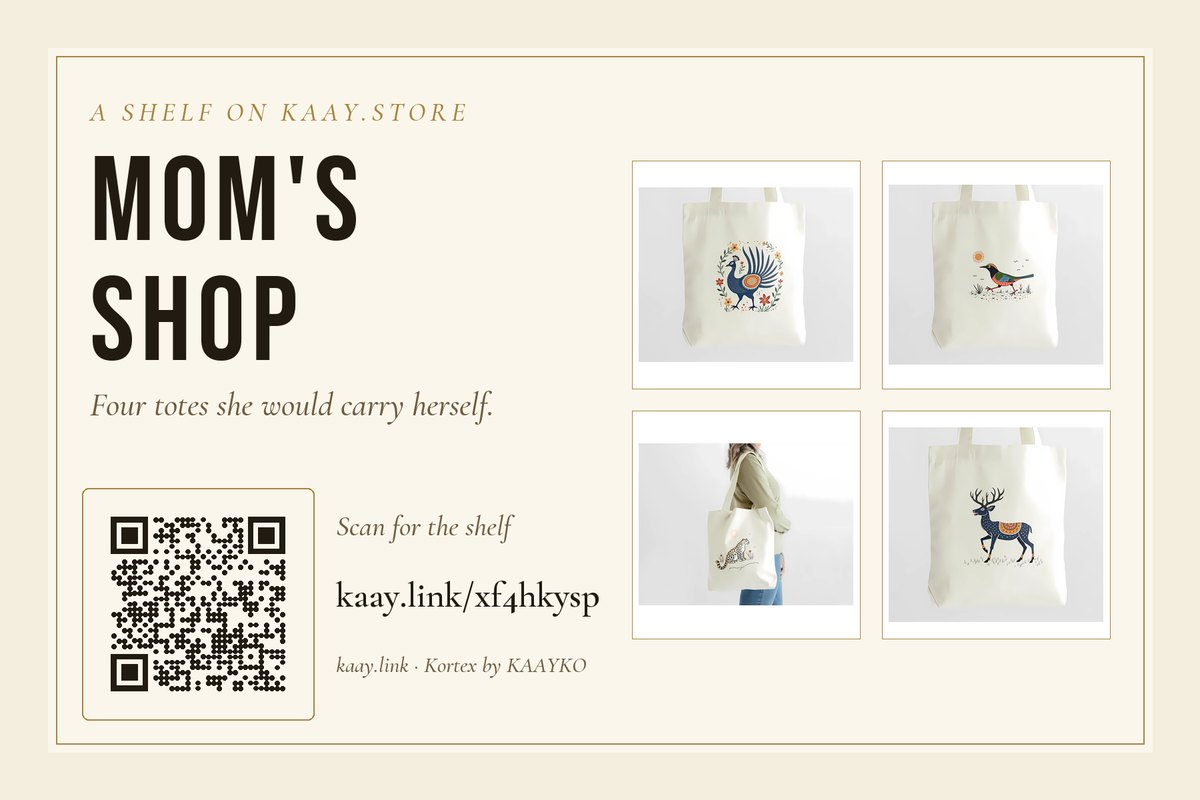
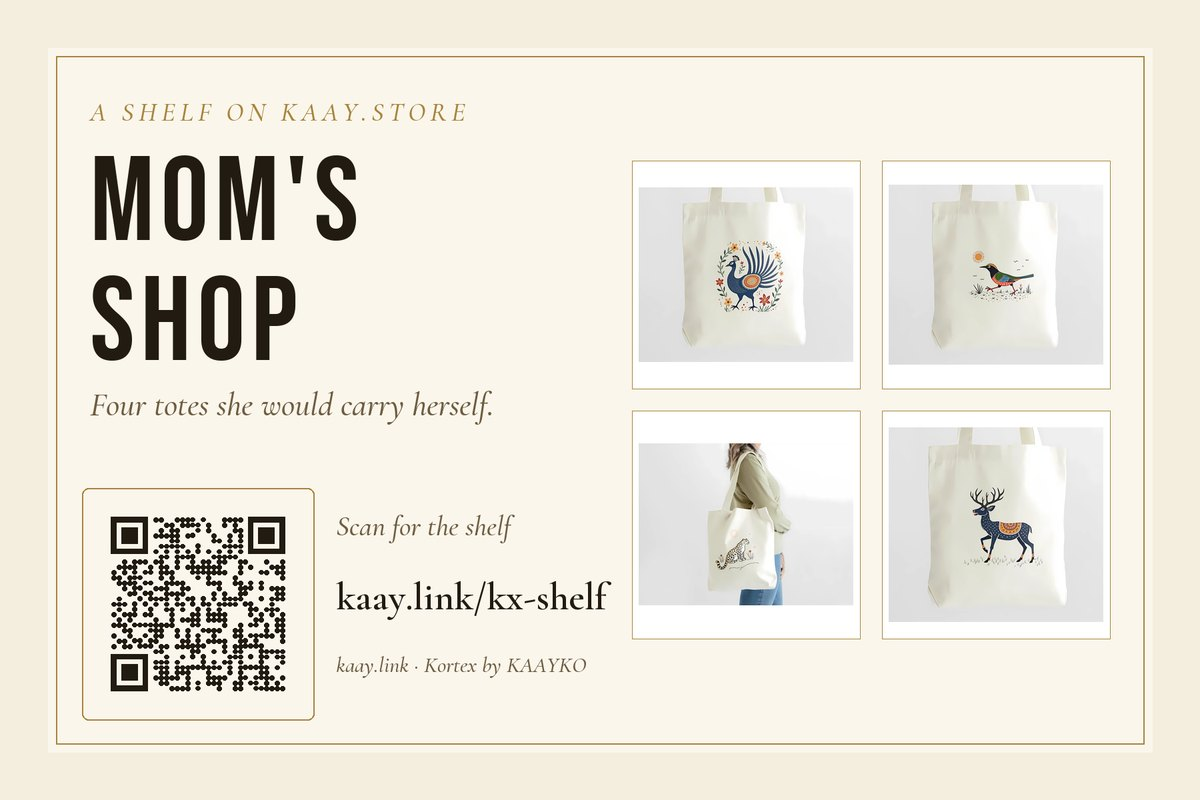
Kortex cards: the sample codes; See its scans opens the sample report, the open buttons go through the code so clicks count

Changed region(s): [[0.2775, 0.7188, 0.5242, 0.7812], [0.0925, 0.6562, 0.2467, 0.8438]]

diff --git a/link-site/index.html b/link-site/index.html
@@ -622,10 +622,10 @@ details.options details.options { margin:var(--sp-4) 0 0; padding-top:var(--sp-2
         <div class="kface back">
           <h3>The paddler</h3>
           <p>A postcard or sticker at the water. One code, the live paddle score behind it. Scan it at the lake, it counts; move the sticker to another lake, compare the two.</p>
-          <p class="case-rule">kaay.link/skcpfj8p</p>
+          <p class="case-rule">kaay.link/kx-lakecard</p>
           <div class="kctas">
-            <a class="btn-submit" href="https://kaayko.com/kortex/r/report_lrboguIeqTf0.5sGGSUI-g2eRFyNJR8Upk_-I5ef-xT6l" data-stop>See its scans</a>
-            <a class="action-link" href="https://kaayko.com/paddlingout/forecast?id=mcdonald" data-stop>Open the forecast</a>
+            <a class="btn-submit" href="https://kaayko.com/kortex/samples#kx-lakecard" data-stop>See its scans</a>
+            <a class="action-link" href="https://www.kaay.link/kx-lakecard" data-stop>Open the forecast</a>
           </div>
         </div>
       </div>
@@ -637,10 +637,10 @@ details.options details.options { margin:var(--sp-4) 0 0; padding-top:var(--sp-2
         <div class="kface back">
           <h3>The maker</h3>
           <p>Four totes on one shelf at kaay.store, one card, one code. Add a fifth tote next month and the printed code still works, straight through to the bag and checkout.</p>
-          <p class="case-rule">kaay.link/xf4hkysp</p>
+          <p class="case-rule">kaay.link/kx-shelf</p>
           <div class="kctas">
-            <a class="btn-submit" href="https://kaayko.com/kortex/r/report_1WlrtVX-Se4q.aIDMIMu-c8FH2oLAK36RoOReZmvR6ilJ" data-stop>See its scans</a>
-            <a class="action-link" href="https://kaay.store/s/moms-shop" data-stop>Open the shelf</a>
+            <a class="btn-submit" href="https://kaayko.com/kortex/samples#kx-shelf" data-stop>See its scans</a>
+            <a class="action-link" href="https://www.kaay.link/kx-shelf" data-stop>Open the shelf</a>
           </div>
         </div>
       </div>
@@ -652,10 +652,10 @@ details.options details.options { margin:var(--sp-4) 0 0; padding-top:var(--sp-2
         <div class="kface back">
           <h3>The gathering</h3>
           <p>A card on the grocery board. Print it once; the code says where and when, and points at the next evening after this one without a reprint.</p>
-          <p class="case-rule">kaay.link/zs9resps</p>
+          <p class="case-rule">kaay.link/kx-baithak</p>
           <div class="kctas">
-            <a class="btn-submit" href="https://kaayko.com/kortex/r/report_Dmo13XmwB4bQ.VfKggUoQcKHF4wjynF38eHu-Qy6WC7fm" data-stop>See its scans</a>
-            <a class="action-link" href="/assets/cards/music-gathering-card.jpg" data-stop>See the card</a>
+            <a class="btn-submit" href="https://kaayko.com/kortex/samples#kx-baithak" data-stop>See its scans</a>
+            <a class="action-link" href="https://www.kaay.link/kx-baithak" data-stop>See the card</a>
           </div>
         </div>
       </div>

diff --git a/src/kortex.html b/src/kortex.html
@@ -622,10 +622,10 @@ details.options details.options { margin:var(--sp-4) 0 0; padding-top:var(--sp-2
         <div class="kface back">
           <h3>The paddler</h3>
           <p>A postcard or sticker at the water. One code, the live paddle score behind it. Scan it at the lake, it counts; move the sticker to another lake, compare the two.</p>
-          <p class="case-rule">kaay.link/skcpfj8p</p>
+          <p class="case-rule">kaay.link/kx-lakecard</p>
           <div class="kctas">
-            <a class="btn-submit" href="https://kaayko.com/kortex/r/report_lrboguIeqTf0.5sGGSUI-g2eRFyNJR8Upk_-I5ef-xT6l" data-stop>See its scans</a>
-            <a class="action-link" href="https://kaayko.com/paddlingout/forecast?id=mcdonald" data-stop>Open the forecast</a>
+            <a class="btn-submit" href="https://kaayko.com/kortex/samples#kx-lakecard" data-stop>See its scans</a>
+            <a class="action-link" href="https://www.kaay.link/kx-lakecard" data-stop>Open the forecast</a>
           </div>
         </div>
       </div>
@@ -637,10 +637,10 @@ details.options details.options { margin:var(--sp-4) 0 0; padding-top:var(--sp-2
         <div class="kface back">
           <h3>The maker</h3>
           <p>Four totes on one shelf at kaay.store, one card, one code. Add a fifth tote next month and the printed code still works, straight through to the bag and checkout.</p>
-          <p class="case-rule">kaay.link/xf4hkysp</p>
+          <p class="case-rule">kaay.link/kx-shelf</p>
           <div class="kctas">
-            <a class="btn-submit" href="https://kaayko.com/kortex/r/report_1WlrtVX-Se4q.aIDMIMu-c8FH2oLAK36RoOReZmvR6ilJ" data-stop>See its scans</a>
-            <a class="action-link" href="https://kaay.store/s/moms-shop" data-stop>Open the shelf</a>
+            <a class="btn-submit" href="https://kaayko.com/kortex/samples#kx-shelf" data-stop>See its scans</a>
+            <a class="action-link" href="https://www.kaay.link/kx-shelf" data-stop>Open the shelf</a>
           </div>
         </div>
       </div>
@@ -652,10 +652,10 @@ details.options details.options { margin:var(--sp-4) 0 0; padding-top:var(--sp-2
         <div class="kface back">
           <h3>The gathering</h3>
           <p>A card on the grocery board. Print it once; the code says where and when, and points at the next evening after this one without a reprint.</p>
-          <p class="case-rule">kaay.link/zs9resps</p>
+          <p class="case-rule">kaay.link/kx-baithak</p>
           <div class="kctas">
-            <a class="btn-submit" href="https://kaayko.com/kortex/r/report_Dmo13XmwB4bQ.VfKggUoQcKHF4wjynF38eHu-Qy6WC7fm" data-stop>See its scans</a>
-            <a class="action-link" href="/assets/cards/music-gathering-card.jpg" data-stop>See the card</a>
+            <a class="btn-submit" href="https://kaayko.com/kortex/samples#kx-baithak" data-stop>See its scans</a>
+            <a class="action-link" href="https://www.kaay.link/kx-baithak" data-stop>See the card</a>
           </div>
         </div>
       </div>
